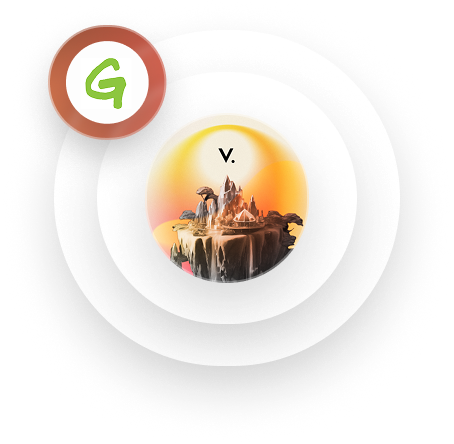
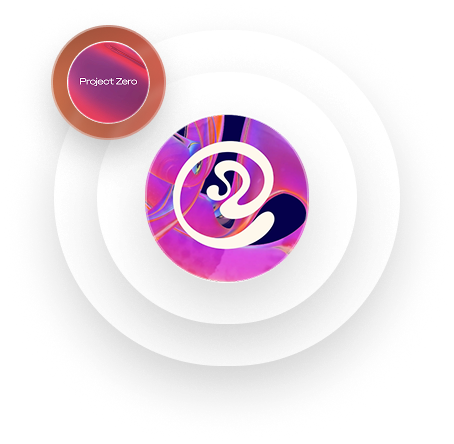
Merge pull request #7 from Huzaifa696/new-pages
fix: fonts issue and UI feedbacks

Pull request: fix: fonts issue and UI feedbacks
<!-- markdownlint-disable-file MD025 -->

# Description

Delete this sentence and add a description that explains what changes you have
done and why they were necessary.

# Testing

Delete this sentence and provide a description of how to test the changes in
this PR.

# Checklist

- [ ] Did you update relevant documentation?
- [ ] Did you add tests to cover new code or a fixed issue?
- [ ] Did you update the changelog?
- [ ] Did you check all checkboxes from the linked Linear task?

<!--
    If a checklist item does not apply to your PR,
    please delete the corresponding line.
-->

Changed region(s): [[0.3084, 0.2342, 0.6784, 0.6441], [0.0925, 0.0586, 0.37, 0.3221]]

diff --git a/src/typescript/frontend/src/componentsV2/Home/HeroSection.tsx b/src/typescript/frontend/src/componentsV2/Home/HeroSection.tsx
@@ -14,13 +14,16 @@ const FEATURED_MARKET_INTERVAL = 5 * 1000;
 const MAX_NUM_FEATURED_MARKETS = 5;
 
 const generateTitleSlug = (title: string | undefined) => {
-  if (!title) return ""
-  return title.toLowerCase().replace(/ /g, "-").replace(/[^a-z0-9-]/g, "");
+  if (!title) return "";
+  return title
+    .toLowerCase()
+    .replace(/ /g, "-")
+    .replace(/[^a-z0-9-]/g, "");
 };
 
 const HeroSection: React.FC<MainCardPropsV2> = (props): JSX.Element => {
   const featuredMarkets = useMemo(() => {
-    return props.featuredMarkets
+    return props.featuredMarkets;
   }, [props.featuredMarkets]);
 
   const { t } = translationFunction();
@@ -47,24 +50,37 @@ const HeroSection: React.FC<MainCardPropsV2> = (props): JSX.Element => {
   return (
     <>
       <div className="w-full px-4 md:w-4/12 lg:w-4/12">
-        <Link href={`/coin/${generateTitleSlug(featured?.coinMeta?.title)}`} className="wow fadeInUp group" data-wow-delay=".1s">
-          <StyledImage src={featured?.coinMeta?.imageURL} className="cursor-pointer [clip-path:circle(45%)]"/>
+        <Link
+          href={`/coin/${generateTitleSlug(featured?.coinMeta?.title)}`}
+          className="wow fadeInUp group"
+          data-wow-delay=".1s"
+        >
+          <StyledImage
+            src={featured?.coinMeta?.imageURL ?? "/images/home/banner-circle.png"}
+            className={`cursor-pointer  ${featured?.coinMeta?.imageURL ? "[clip-path:circle(45%)]" : ""}`}
+          />
         </Link>
       </div>
       <div className="w-full px-10 sm-px-10 md:w-1/2 w60-box">
         <div className="wow fadeInUp group" data-wow-delay=".1s">
           <div className="flex  mb-5">
             <div className="mr-3 ">
-              <StyledImage src="/images/home/fire.png"  />
+              <StyledImage src="/images/home/fire.png" />
             </div>
             <div className="px-4 py-2 font-medium text-lg border-green text-green rounded-full mr-3 b-1">
               +30.65%
             </div>
-            <div className="px-4 py-2 font-medium text-lg border-white text-white rounded-full">
-              1% to GREENPEACE
+            <div className="pl-4 py-2 pr-1 font-medium text-lg border-white text-white rounded-full uppercase flex-box">
+              <span>save coral reefs</span>
+              <span className="ml-2">
+                <StyledImage src="/images/coin/info.png" width={26} height={26} />
+              </span>
             </div>
           </div>
-          <Link href={`/coin/${generateTitleSlug(featured?.coinMeta?.title)}`} className="mb-3 text-left main-title font-bold text-white dark:text-white cursor-pointer">
+          <Link
+            href={`/coin/${generateTitleSlug(featured?.coinMeta?.title)}`}
+            className="mb-3 text-left main-title font-bold text-white dark:text-white cursor-pointer"
+          >
             {featured?.coinMeta?.title ?? "BLACK HEART"}
           </Link>
           <StatsText>

diff --git a/src/typescript/frontend/src/app/tailwind.css b/src/typescript/frontend/src/app/tailwind.css
@@ -3178,8 +3178,23 @@ video {
 }
 
 .bottom-match {
-  bottom: -26%;
-  right: -6%;
+  bottom: -20% !important;
+  right: -7% !important;
+}
+
+@media screen and (max-width: 1776px) {
+  .bottom-match {
+    bottom: -18% !important;
+    right: -5% !important;
+  }
+
+}
+
+@media (max-width: 1440px) {
+  .bottom-match {
+    bottom: -0% !important;
+    right: 0% !important;
+  }
 }
 
 .btn-w50 {
@@ -3197,6 +3212,12 @@ video {
 
 .progress {
   background-image: linear-gradient(to right, #5ccacc, #a562ff);
+  height: 18px;
+  width: 70%;
+}
+
+.progress-2 {
+  background-image: linear-gradient(90deg, #aecc5c 0%, #ff62a3 100%);
   height: 18px;
   width: 70%;
 }

diff --git a/src/typescript/frontend/src/componentsV2/Coin/ProgressBar.tsx b/src/typescript/frontend/src/componentsV2/Coin/ProgressBar.tsx
@@ -1,13 +1,25 @@
 "use client";
 import React from "react";
 
-const ProgressBar = (): JSX.Element => {
+const ProgressBar = ({
+  title = "CORAL REEFS SAVED",
+  progress = 53,
+  variant = "blue",
+}: {
+  title?: string;
+  progress: number;
+  variant?: "blue" | "pink";
+}): JSX.Element => {
   return (
-    <div className="flex-box w-full mb-10">
-      <h4 className="text-white title-w30 text-lg font-semibold mt-12">BONDING CURVE PROGRESS</h4>
-      <div className="w-full px-2 rounded-full progress-line flex items-center mt-12">
-        <div className="progress rounded-full"></div>
-        <h6 className="text-secondary text-md font-semibold">53%</h6>
+    <div className="flex-box w-full">
+      <h4 className="text-white title-w30 text-lg font-semibold mt-12">{title}</h4>
+      <div className="w-full px-[3px] rounded-full progress-line flex items-center mt-12">
+        <div className={`${variant === "pink" ? "progress-2" : "progress"} rounded-full`}></div>
+        <h6
+          className={`${variant === "pink" ? "text-[#D76B7B]" : "text-secondary"} text-md font-semibold ml-2`}
+        >
+          {progress}%
+        </h6>
       </div>
     </div>
   );

diff --git a/src/typescript/frontend/src/componentsV2/Coin/CoinDetailsHeader.tsx b/src/typescript/frontend/src/componentsV2/Coin/CoinDetailsHeader.tsx
@@ -4,8 +4,8 @@ import { HeaderContainer, CoinTitle, CoinDescription, CoinDescriptionSpan } from
 import { useParams } from "next/navigation";
 
 const CoinDetailsHeader = (): JSX.Element => {
-  const params = useParams()
-  const name = params?.market as string ?? "BLACK_HEART";
+  const params = useParams();
+  const name = (params?.market as string) ?? "BLACK_HEART";
 
   const formattedName = useMemo(() => {
     return name.replace(/[_-]/g, " ").replace(/\b\w/g, (char) => char.toUpperCase());
@@ -18,10 +18,12 @@ const CoinDetailsHeader = (): JSX.Element => {
           <div className="wow fadeInUp group" data-wow-delay=".1s">
             <CoinTitle>{formattedName}</CoinTitle>
             <CoinDescription>
-              Join our movement. 1% of goes to{" "}
+              1% of every trade goes to{" "}
               <CoinDescriptionSpan className="text-third underline">
-                Greenpeace.
+                Project Zero’s Coral Collective,
               </CoinDescriptionSpan>
+              a multiyear global initiative
+              <br /> and the largest global conservation effort to save coral reefs from extinction.
             </CoinDescription>
           </div>
         </div>

diff --git a/src/typescript/frontend/src/componentsV2/Home/styled.tsx b/src/typescript/frontend/src/componentsV2/Home/styled.tsx
@@ -6,11 +6,11 @@ export const TabSection = styled.div`
   padding: 0 2.5rem;
 
   @media (min-width: 768px) {
-    width: 66.666667%; // md:w-8/12
+    width: 61%; // md:w-8/12
   }
 
   @media (min-width: 1024px) {
-    width: 66.666667%; // lg:w-8/12
+    width: 60%; // lg:w-8/12
   }
 
   @media (max-width: 640px) {
@@ -20,11 +20,11 @@ export const TabSection = styled.div`
 
 export const TabMetricsSection = styled(TabSection)`
   @media (min-width: 768px) {
-    width: 33.333333%; // md:w-4/12
+    width: 40%; // md:w-4/12
   }
 
   @media (min-width: 1024px) {
-    width: 33.333333%; // lg:w-4/12
+    width: 40%; // lg:w-4/12
   }
 `;
 
@@ -40,7 +40,7 @@ export const TabFlex = styled.div`
 
 export const TabText = styled.p<{ isActive?: boolean }>`
   margin-bottom: 0.75rem;
-  margin-right: 1.25rem;
+  margin-right: 5.25rem;
   color: white;
   font-size: 1.125rem;
   font-weight: normal;

diff --git a/src/typescript/frontend/src/componentsV2/Coin/CoinDetailsBody.tsx b/src/typescript/frontend/src/componentsV2/Coin/CoinDetailsBody.tsx
@@ -68,14 +68,14 @@ const CoinDetailsBody = (props: GridProps & { coinImage?: string }): JSX.Element
           <StyledImage src="/images/coin/match2.png" />
         </div>
         <div className="flex negative-margin justify-end mb-5 px-2 md:px-0 w-full z-1">
-          <a href="#" onClick={() => setShowInfo(!showInfo)}>
+          <span  onClick={() => setShowInfo(!showInfo)} className="cursor-pointer">
             <StyledImage src="/images/coin/info.png" />
-          </a>
+          </span>
         </div>
         {showInfo ? (
           <div className="flex w-full flex-wrap px-2 md:px-0 items-center justify-end">
             <div className="box-show px-5 py-3 rounded-full max-content text-white">
-              1% of every trade goes to Greenpeace
+              1% of every trade goes to Project Zero’s
             </div>
 
             <a href="#" onClick={() => setShowInfo(false)}>
@@ -87,7 +87,8 @@ const CoinDetailsBody = (props: GridProps & { coinImage?: string }): JSX.Element
         )}
 
         <MarketCard />
-        <ProgressBar />
+        <ProgressBar title="CORAL REEFS SAVED" progress={183} />
+        <ProgressBar title="EDUCATORS TRAINED" progress={31} variant="pink" />
       </ContentWrapper>
       <StyledImage className="w-full absolute bottom-match" src="/images/home/match.png" />
     </div>

diff --git a/src/typescript/frontend/src/app/global.css b/src/typescript/frontend/src/app/global.css
@@ -30,14 +30,14 @@
 .med-pixel-text {
   font-size: 20px !important;
   line-height: 25px;
-  font-family: var(--font-pixelar) !important;
+  font-family: var(--font-lora) !important;
 }
 
 @media screen and (min-width: 768px) {
   .med-pixel-text {
     font-size: 22px !important;
     line-height: 27px;
-    font-family: var(--font-pixelar) !important;
+    font-family: var(--font-lora) !important;
   }
 }
 
@@ -45,7 +45,7 @@
   .med-pixel-text {
     font-size: 24px !important;
     line-height: 30px;
-    font-family: var(--font-pixelar) !important;
+    font-family: var(--font-lora) !important;
   }
 }
 
@@ -53,7 +53,7 @@
   .med-pixel-text {
     font-size: 32px !important;
     line-height: 40px;
-    font-family: var(--font-pixelar) !important;
+    font-family: var(--font-lora) !important;
   }
 }
 

diff --git a/src/typescript/frontend/src/app/launch.css b/src/typescript/frontend/src/app/launch.css
@@ -7,14 +7,14 @@
 .med-pixel-text {
   font-size: 20px !important;
   line-height: 25px;
-  font-family: var(--font-pixelar) !important;
+  font-family: var(--font-lora) !important;
 }
 
 @media screen and (min-width: 768px) {
   .med-pixel-text {
     font-size: 22px !important;
     line-height: 27px;
-    font-family: var(--font-pixelar) !important;
+    font-family: var(--font-lora) !important;
   }
 }
 
@@ -22,7 +22,7 @@
   .med-pixel-text {
     font-size: 24px !important;
     line-height: 30px;
-    font-family: var(--font-pixelar) !important;
+    font-family: var(--font-lora) !important;
   }
 }
 
@@ -30,7 +30,7 @@
   .med-pixel-text {
     font-size: 32px !important;
     line-height: 40px;
-    font-family: var(--font-pixelar) !important;
+    font-family: var(--font-lora) !important;
   }
 }
 

diff --git a/src/typescript/frontend/src/components/selects/trade-options/index.tsx b/src/typescript/frontend/src/components/selects/trade-options/index.tsx
@@ -25,8 +25,8 @@ export const TradeOptions = ({ onMaxSlippageUpdate }: TradeOptionsProps) => {
       <StyledDropdownMenuItem disabled={false}>
         <DropdownMenuInner>
           <div className="med-pixel-text flex flex-row justify-between gap-[16px] w-[100%]">
-            <span className="text-black font-pixelar text-2xl">MAX. SLIPPAGE</span>
-            <span className="text-black font-pixelar text-2xl">{Number(maxSlippage) / 100}%</span>
+            <span className="text-black font-lora text-2xl">MAX. SLIPPAGE</span>
+            <span className="text-black font-lora text-2xl">{Number(maxSlippage) / 100}%</span>
           </div>
         </DropdownMenuInner>
       </StyledDropdownMenuItem>
@@ -37,7 +37,7 @@ export const TradeOptions = ({ onMaxSlippageUpdate }: TradeOptionsProps) => {
               <span
                 className={
                   `${maxSlippageMode === "auto" ? "opacity-100" : "opacity-30"} ` +
-                  "text-black font-pixelar text-2xl cursor-pointer"
+                  "text-black font-lora text-2xl cursor-pointer"
                 }
                 onClick={() => {
                   setMaxSlippageMode("auto");
@@ -51,7 +51,7 @@ export const TradeOptions = ({ onMaxSlippageUpdate }: TradeOptionsProps) => {
               <span
                 className={
                   `${maxSlippageMode === "custom" ? "opacity-100" : "opacity-30"} ` +
-                  "text-black font-pixelar text-2xl cursor-pointer"
+                  "text-black font-lora text-2xl cursor-pointer"
                 }
                 onClick={() => {
                   setMaxSlippageMode("custom");

diff --git a/src/typescript/frontend/src/componentsV2/Home/CoinCard.tsx b/src/typescript/frontend/src/componentsV2/Home/CoinCard.tsx
@@ -82,9 +82,9 @@ const CoinCard: React.FC<CoinCardProps> = ({
             className="box-img"
             src={imageURL ?? "/images/home/box-cir.png"}
             style={{
-              ...(imageURL && {
-                clipPath: "circle(45%)",
-              }),
+              // ...(imageURL && {
+              //   clipPath: "circle(45%)",
+              // }),
             }}
             width={150}
             height={150}

diff --git a/src/typescript/frontend/src/app/home-old/layout.tsx b/src/typescript/frontend/src/app/home-old/layout.tsx
@@ -2,8 +2,8 @@ import type { Metadata } from "next";
 import React from "react";
 
 export const metadata: Metadata = {
-  title: "VMC",
-  description: "VMC",
+  title: "MOVEMENT COIN",
+  description: "MOVEMENT COIN",
 };
 
 export default async function HomeLayout({ children }: Readonly<{

diff --git a/src/typescript/frontend/src/app/home/layout.tsx b/src/typescript/frontend/src/app/home/layout.tsx
@@ -2,8 +2,8 @@ import type { Metadata } from "next";
 import React from "react";
 
 export const metadata: Metadata = {
-  title: "VMC",
-  description: "VMC",
+  title: "MOVEMENT COIN",
+  description: "MOVEMENT COIN",
 };
 
 export default async function HomeLayout({ children }: Readonly<{